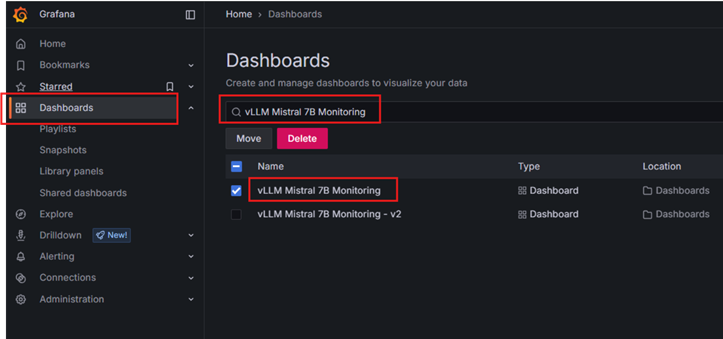
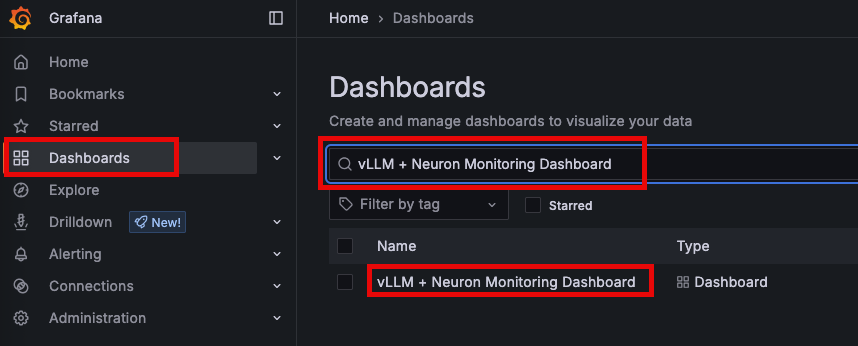
updated dashboard images and instructions

diff --git a/content/500_observability/520_vLLMandNeuronMonitoring.md b/content/500_observability/520_vLLMandNeuronMonitoring.md
@@ -43,31 +43,12 @@ kubectl apply -f neuron-servicemonitor.yaml
 kubectl apply -f vllm-neuron-dashboard-configmap.yaml
 ```
 
-Navigate back to your Grafana URL, Click on the "**Dashboards**" option from the right window pane. Then in the search field enter "vLLM + Neuron Monitoring Dashboard", then select it to open the dashboard.
+##### Log into Grafana dashboard
 
-
-
-
-#### Grafana Stack
-
-Get grafana loadbalancer
-::code[kubectl get svc -n kube-system kube-prometheus-stack-grafana]{language=bash showLineNumbers=false showCopyAction=true}
-
-```bash
-NAME                            TYPE           CLUSTER-IP      EXTERNAL-IP                                                               PORT(S)        AGE
-kube-prometheus-stack-grafana   LoadBalancer   172.20.211.49   a0b4c567b25944afb889f19b945efad4-1467842165.us-west-2.elb.amazonaws.com   80:30387/TCP   18m
-```
-
-
-
-# Get LoadBalancer URL
+1. Run the following command to get the Grafana URL, and logon credentials.
 ```bash
 GRAFANA_URL=$(kubectl get svc -n kube-system kube-prometheus-stack-grafana -o jsonpath='{.status.loadBalancer.ingress[0].hostname}')
 ```
-
-# Log into Grafana dashboard
-
-1. Run the following command to get the Grafana URL, and logon credentials.
 
 ```bash
 echo "Grafana URL: http://$GRAFANA_URL"
@@ -79,19 +60,19 @@ echo "Password: $GRAFANA_PASSWORD"
 
 2. Open the Grafana URL (shown in the output) in your browser, and use the credentials shown to log-in.
 
-3. Click on the "**Dashboards**" option from the right window pane. Then in the search field, enter the name of the dashboard you want to view, such as the "**vLLM Mistral 7B Monitoring**" that you created in the pervious steps. Click on the name that it returns to open the Grafana dashboard. DO NOT CLOSE this dashboard as you will revisit it in the below steps.
+3. Click on the "**Dashboards**" option from the right window pane. 
+
+
+Navigate back to your Grafana URL, Click on the "**Dashboards**" option from the right window pane. Then in the search field, enter the name of the dashboard you want to view, such as the "**vLLM + Neuron Monitoring Dashboard**" that you created in the pervious steps. Click on the name that it returns to open the Grafana dashboard. DO NOT CLOSE this dashboard as you will revisit it in the below steps.
 
 ![mistral_vllm_dash_1](/static/images/mistral_vllm_dash_1.png)
-
-
 
 4. Now go back to your Open WebUI client URL, and generate some input prompts (ask it questions or a task), and view the metrics associated with Inference, input and output tokens generated.
 
 
 5. Navigate back to your vLLM monitoring dashboard and view the metrics related to input and output tokens, such as below.
 
-![vllm_dash_example](/static/images/vllm_dash_example.png)
-
+![mistral_vllm_dash_1](/static/images/vLLMNeuronMonitoringDashboard.png)
 
 
 6. You have successfully deployed a vLLM observability dashboard in this module. Continue to the next module to deploy an observability dashboard for your AWS Inferentia Accelerated Compute (Neuron observability dashboard).
@@ -105,16 +86,30 @@ In this section, you have deployed a Grafana dashboard that provides observabili
 ##### Optional: Deploy additional Dashboards:
 
 You can create the below additional dashboards on Grafana, and then search for them in Grafana dashboards and view them (as per the above step)
+
+
+##### Deploy the vLLM Dashboard (Optional)
+
+```bash
+kubectl apply -f vllm-dashboard-configmap.yaml
+```
+This will create a dashboard called "vLLM Mistral 7B Monitoring" on Grafana
+
+![vllm_dash_example](/static/images/vLLMMistral7BMonitoring.png)
+
 ```bash
 kubectl apply -f vllm-dashboard-configmap-v2.yaml
 ```
 
 This will create a dashboard called  "vLLM Mistral 7B Monitoring - v2" on Grafana
+![vllm_dash_example](/static/images/vLLMMistral7BMonitoring-v2.png)
 
 ```bash
 kubectl apply -f vllm-performance-dashboard.yaml
 ```
 This will create a dashboard called "vLLM Performance Statistics" on Grafana
+
+![vllm_dash_example](/static/images/vLLMPerformanceStatistics.png)
 
 ```bash
 kubectl apply -f vllm-query-statistics.yaml
@@ -122,7 +117,7 @@ kubectl apply -f vllm-query-statistics.yaml
 This will create a dashboard called "vLLM Query Statistics" on Grafana
 
 
-
+![vllm_dash_example](/static/images/vLLMQueryStatistics.png)
 
 ##### Deploy Neuron Monitoring Dashboar (Optional)
 
@@ -135,13 +130,9 @@ kubectl apply -f neuron-monitoring-configmap.yaml
 
 Verify dashboard on grafana "AWS Neuron Hardware Monitoring"
 
+![vllm_dash_example](/static/images/AWSNeuronHardwareMonitoring.png)
 
-##### Deploy the vLLM Dashboard (Optional)
 
-```bash
-kubectl apply -f vllm-dashboard-configmap.yaml
-```
-This will create a dashboard called "vLLM Mistral 7B Monitoring" on Grafana
 
 <!--
 
